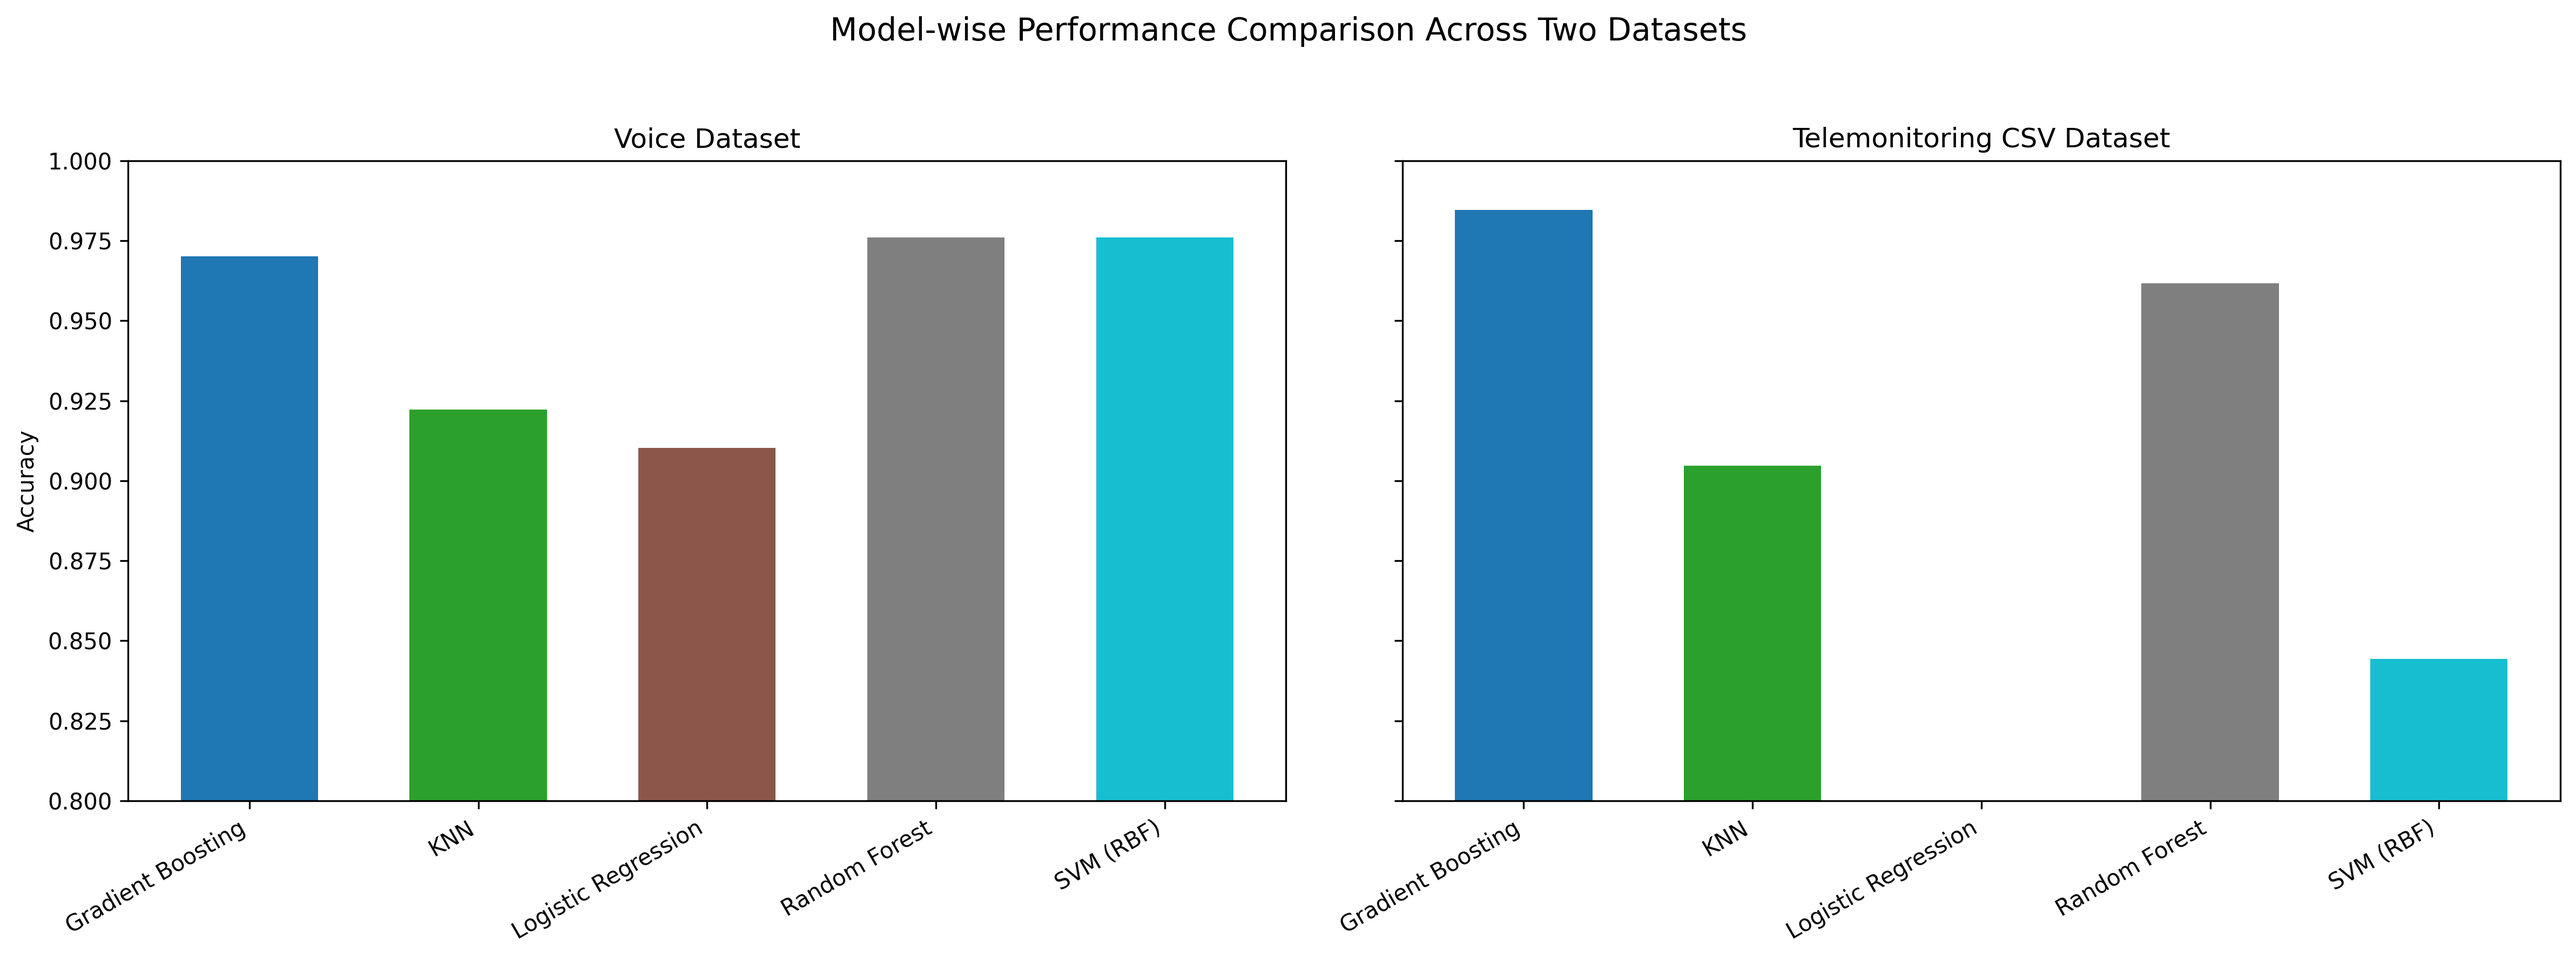
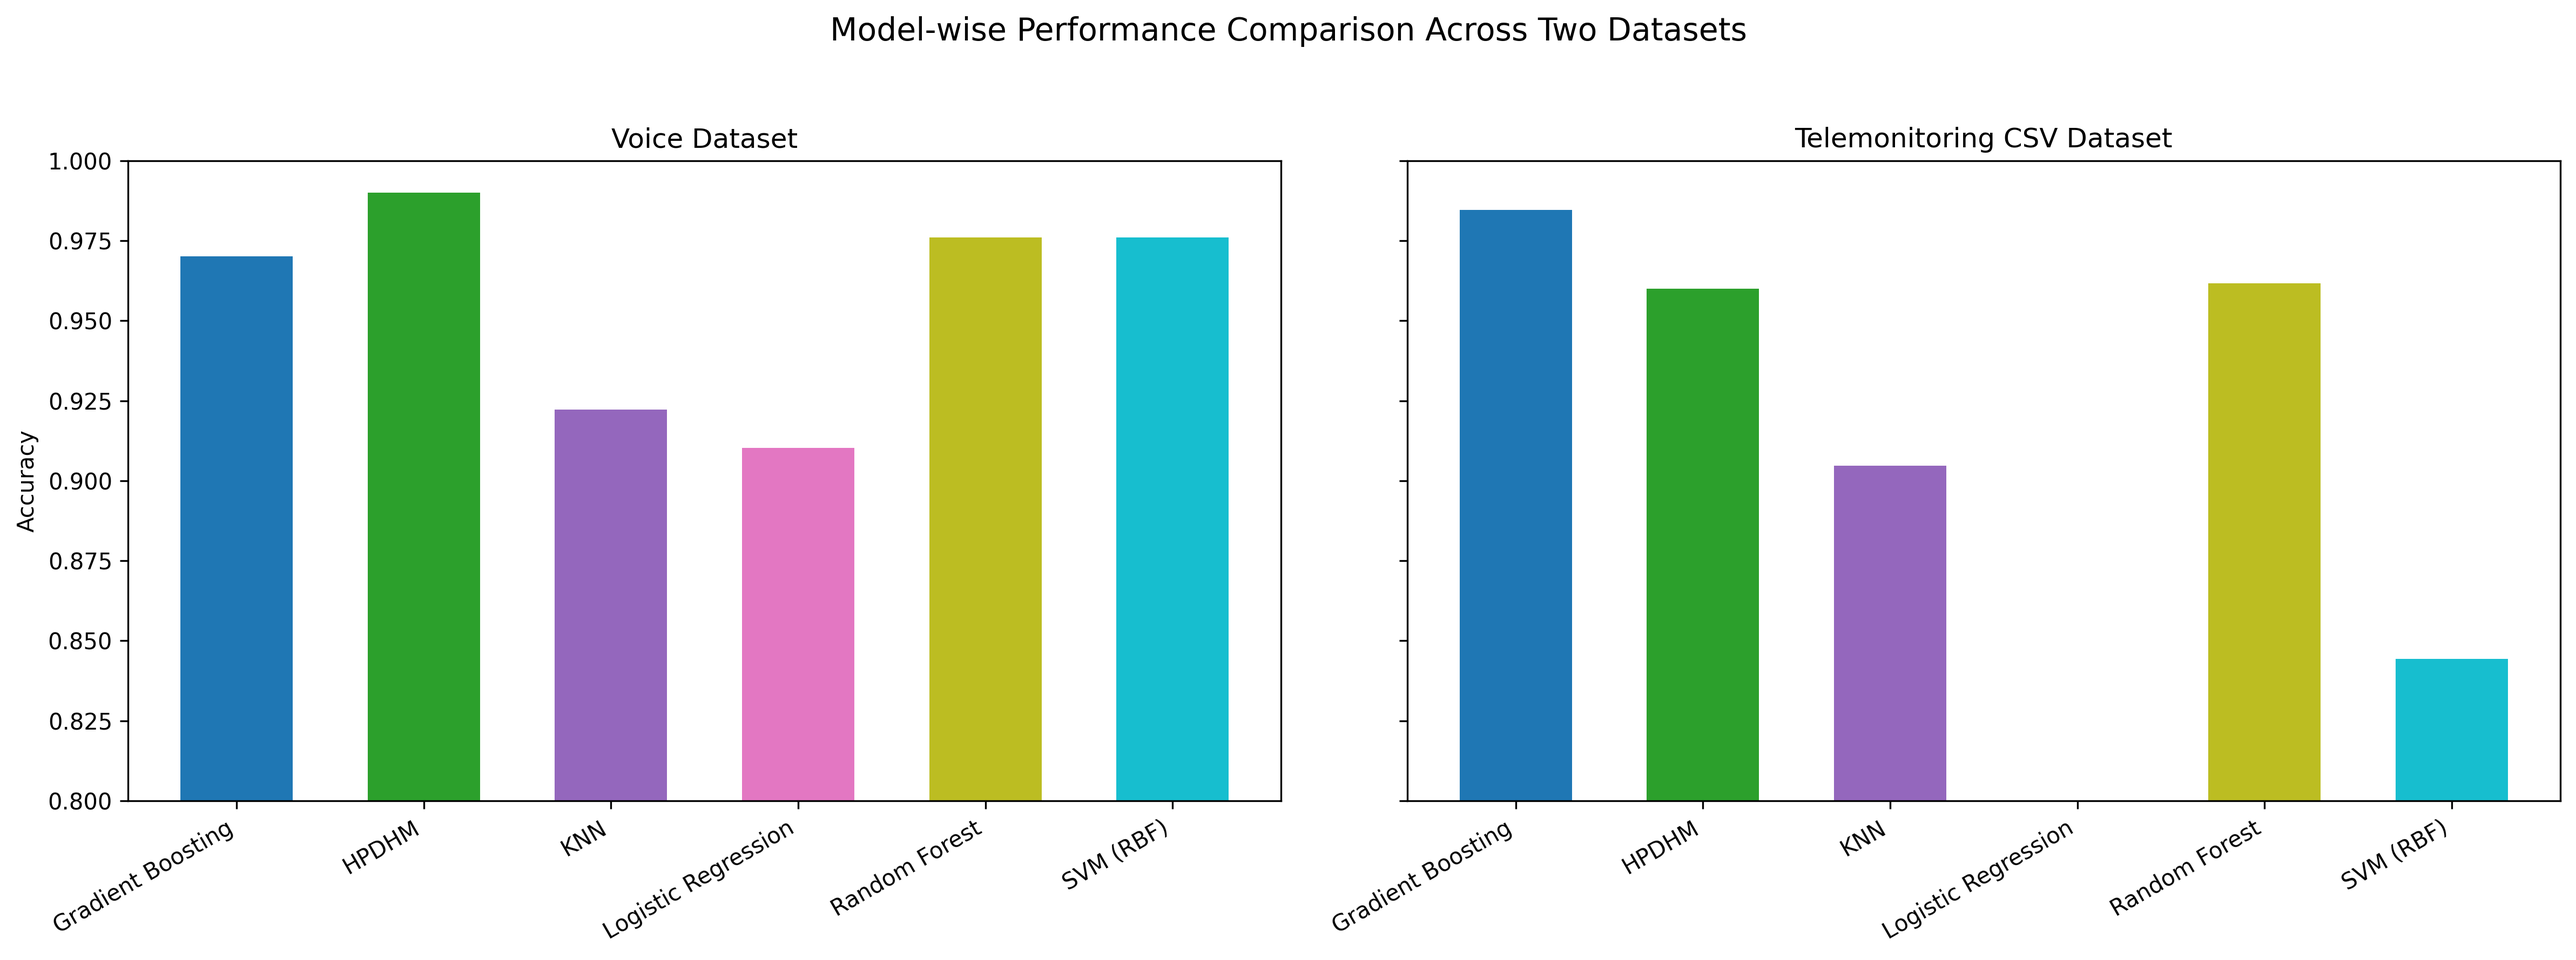
new commit

diff --git a/src/telemonitoring_heatmap.py b/src/telemonitoring_heatmap.py
@@ -1,0 +1,28 @@
+import os
+import pandas as pd
+import seaborn as sns
+import matplotlib.pyplot as plt
+
+BASE_DIR = os.path.dirname(os.path.dirname(os.path.abspath(__file__)))
+DATA_PATH = os.path.join(BASE_DIR, "data", "telemonitoring", "parkinsons_updrs.data")
+
+df = pd.read_csv(DATA_PATH)
+
+# Remove non-feature columns
+features = df.drop(columns=["motor_UPDRS", "total_UPDRS"])
+
+# Correlation matrix
+corr = features.corr()
+
+plt.figure(figsize=(12, 10))
+sns.heatmap(
+    corr,
+    cmap="magma",
+    square=True,
+    cbar=True
+)
+
+plt.title("Correlation Heatmap of Telemonitoring Features")
+plt.tight_layout()
+plt.savefig("telemonitor_correlation_heatmap.png", dpi=300)
+plt.show()

diff --git a/src/voice_heatmap.py b/src/voice_heatmap.py
@@ -1,0 +1,24 @@
+import numpy as np
+import pandas as pd
+import seaborn as sns
+import matplotlib.pyplot as plt
+
+# Load MFCC features
+X = np.load("data/voice_features.npy")
+
+df = pd.DataFrame(X, columns=[f"MFCC_{i+1}" for i in range(X.shape[1])])
+
+corr = df.corr()
+
+plt.figure(figsize=(12, 10))
+sns.heatmap(
+    corr,
+    cmap="magma",
+    square=True,
+    cbar=True
+)
+
+plt.title("Correlation Heatmap of MFCC Features (Voice Dataset)")
+plt.tight_layout()
+plt.savefig("voice_mfcc_correlation_heatmap.png", dpi=300)
+plt.show()

diff --git a/src/plot_different.py b/src/plot_different.py
@@ -18,7 +18,7 @@ def plot_for_dataset(dataset_name: str, file_prefix: str):
     df_d = df[df["Dataset"] == dataset_name].copy()
 
     if df_d.empty:
-        raise ValueError(f"❌ Dataset '{dataset_name}' not found in CSV. Check spelling in CSV.")
+        raise ValueError(f"Dataset '{dataset_name}' not found in CSV. Check spelling in CSV.")
 
     # Sort models by accuracy (best first) for THIS dataset only
     model_order = df_d.sort_values("Accuracy", ascending=False)["Model"].tolist()

diff --git a/src/add_our_method.py b/src/add_our_method.py
@@ -5,7 +5,7 @@ import pandas as pd
 # Settings (edit these)
 # ==============================
 CSV_PATH = "model_comparison_results.csv"
-OUR_METHOD_NAME = "Our Method (BiLSTM+Attention)"
+OUR_METHOD_NAME = "HPDHM"
 
 # Put your final trained model scores here:
 OUR_METHOD_RESULTS = [
